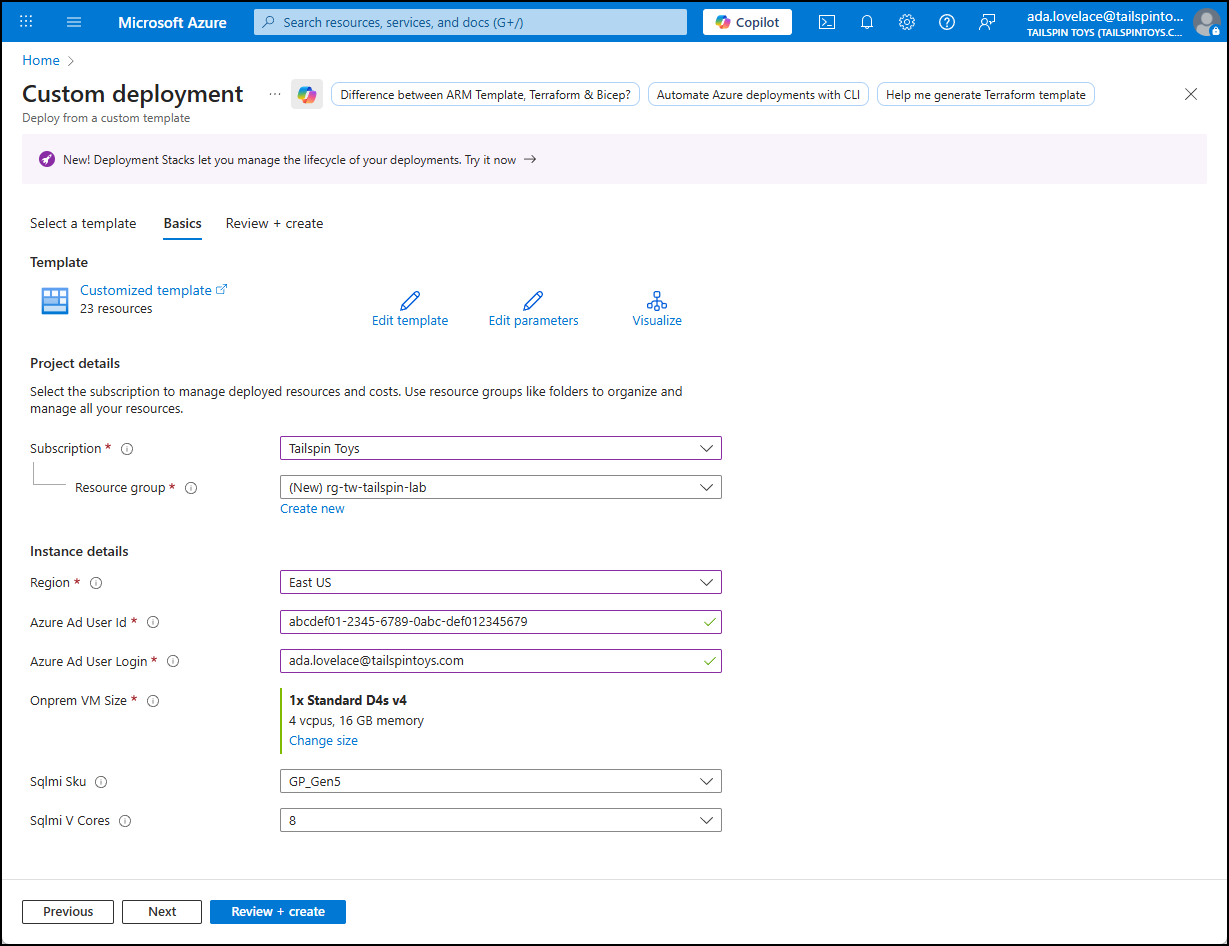
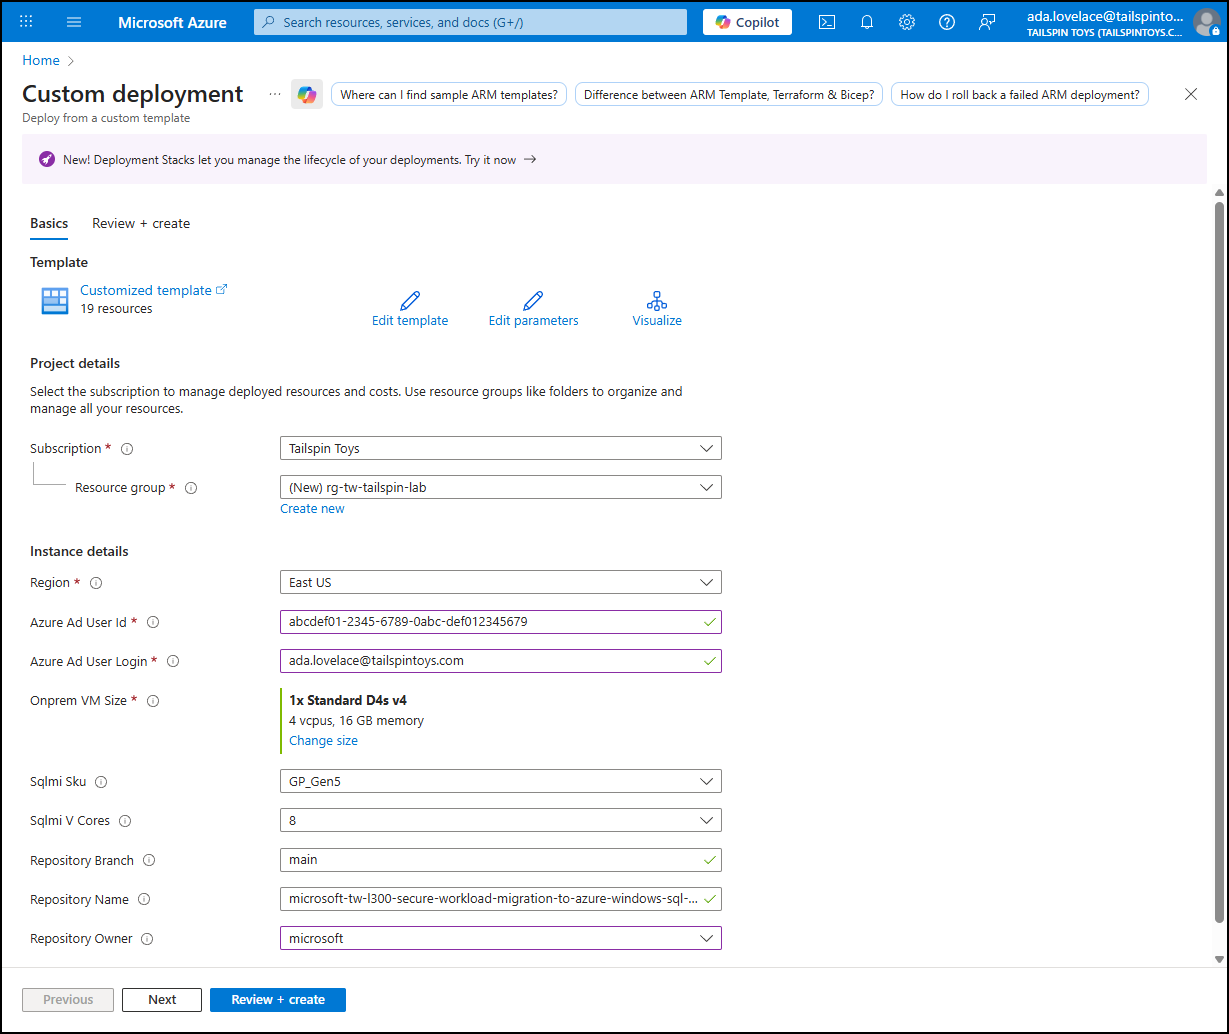
Updating settings for custom deployment and screenshot

diff --git a/docs/00_lab_setup/00_02.md b/docs/00_lab_setup/00_02.md
@@ -90,6 +90,9 @@ The key activities are:
 
    - **Sqlmi Sku**: Select `GP_Gen5` (General Purpose - Gen 5).
    - **Sqlmi V Cores**: Select `8`.
+   - **Repository Branch**: Leave the default value of `main`.
+   - **Repository Name**: Accept the default value.
+   - **Repository Owner**: Select `microsoft`.
    - Select **Review + create** to continue to the next tab.
 
      ![Azure Portal Create a new deployment standard window with entries to add all options needed to deploy the ARM template.](../../Hands-on%20lab/images/custom-deployment.png "Fill in the required ARM template parameters")
